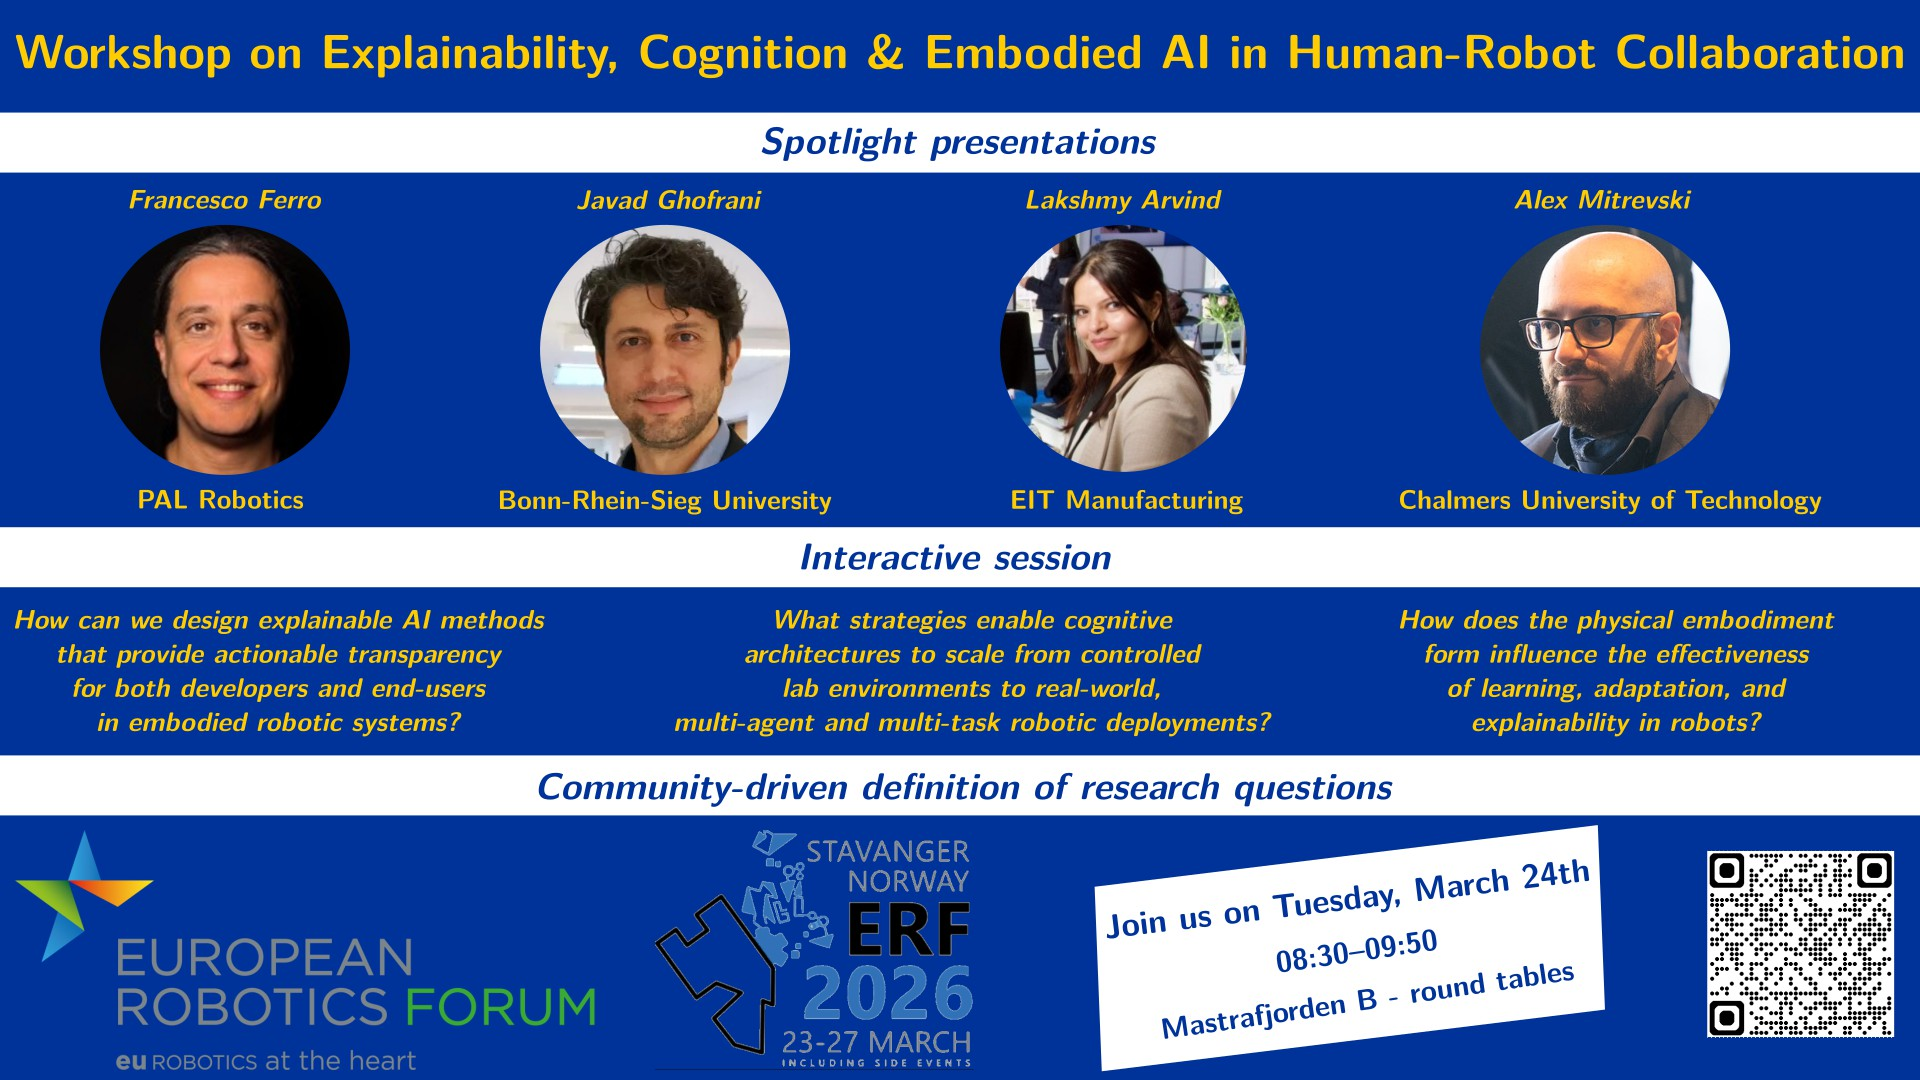
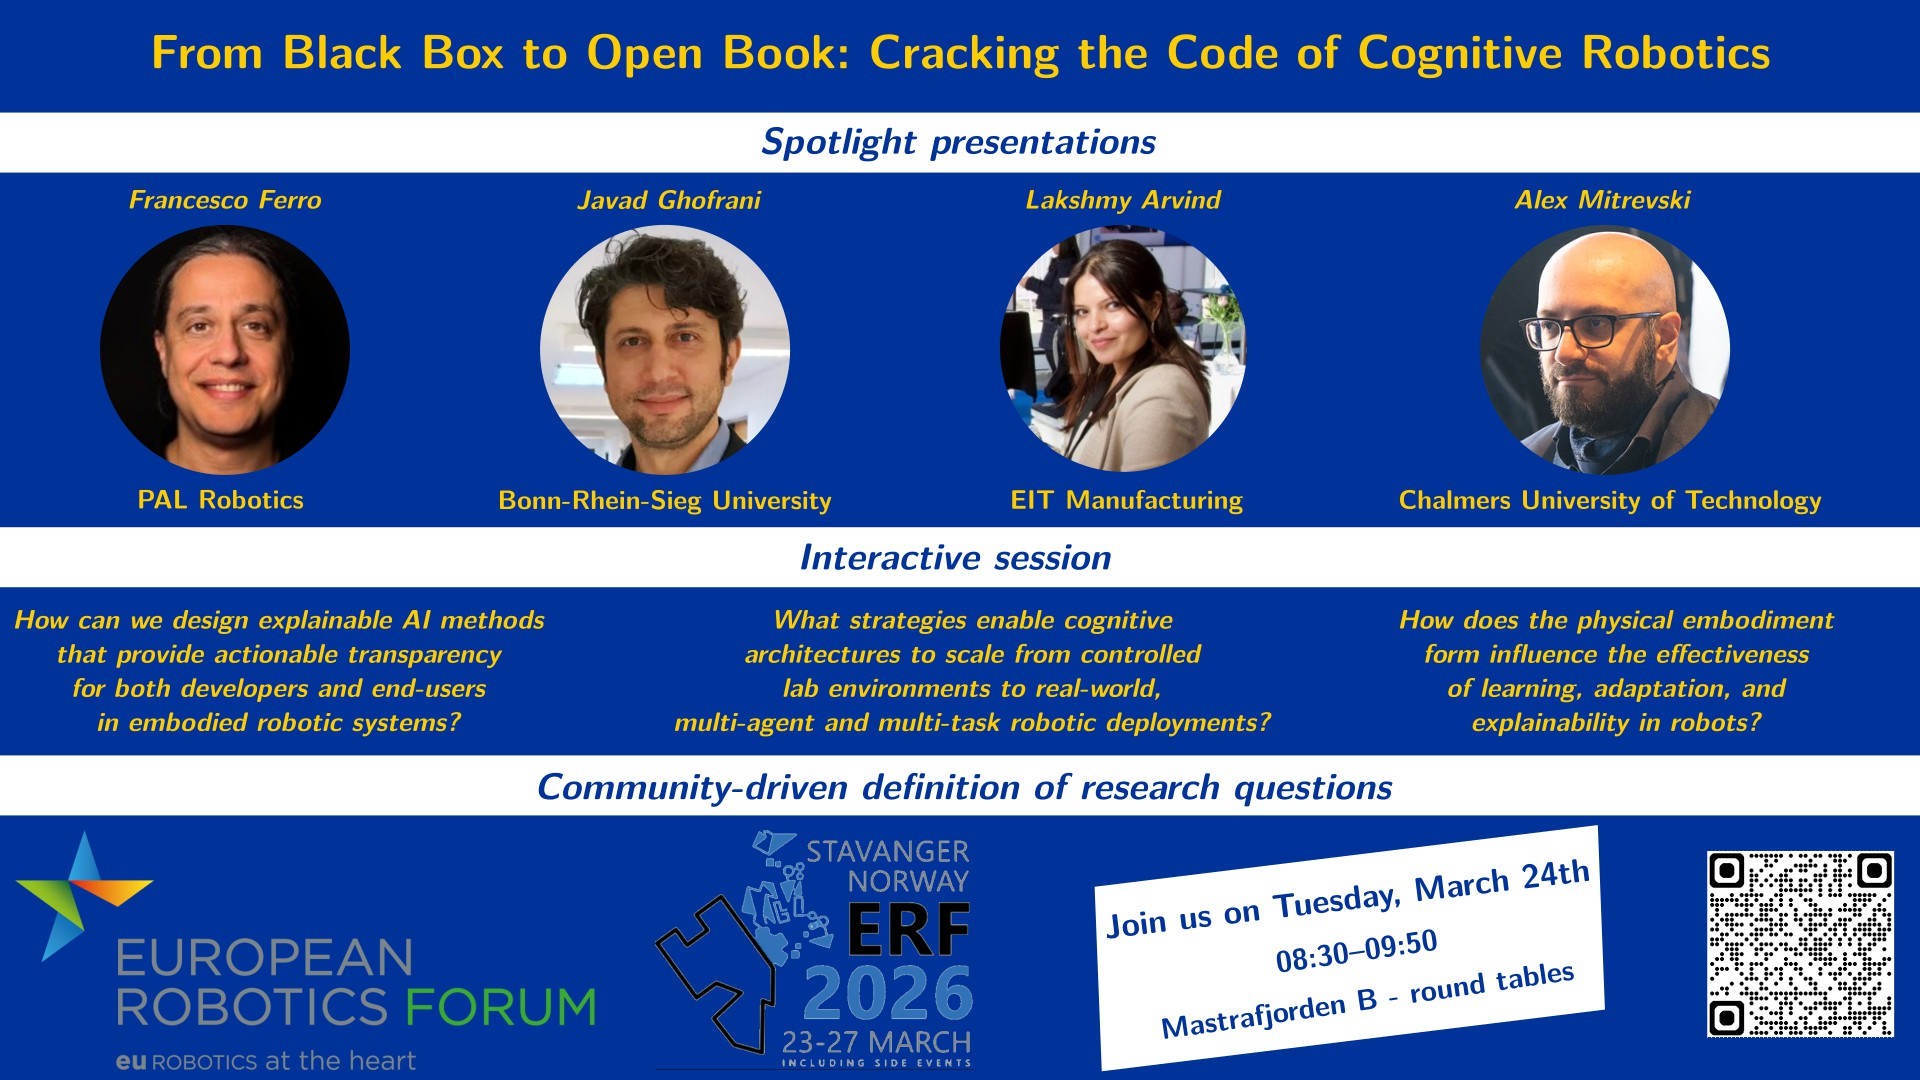
Updated title

Changed region(s): [[0.0, 0.0306, 1.0, 0.0917]]

diff --git a/highlights/index.html b/highlights/index.html
@@ -5,11 +5,11 @@
     <base href="..">
     <link rel="shortcut icon" type="image/png" href="assets/favicon.png"/>
     <link rel="stylesheet" type="text/css" media="all" href="assets/main.css"/>
-    <meta name="description" content="2nd Workshop on Robot Execution Failures and Failure Management Strategies at RSS 2024">
+    <meta name="description" content="From Black Box to Open Book: Cracking the Code of Cognitive Robotics (ERF 2026 Workshop)">
     <meta name="resource-type" content="document">
     <meta name="distribution" content="global">
     <meta name="KeyWords" content="Conference">
-    <title>Workshop Highlights | 2nd Workshop on Robot Execution Failures and Failure Management Strategies at RSS 2024</title>
+    <title>Workshop Highlights | From Black Box to Open Book: Cracking the Code of Cognitive Robotics (ERF 2026 Workshop)</title>
 </head>
 
 <body>
@@ -17,7 +17,7 @@
     <div class="banner">
         <img src="assets/banner.jpg" alt="Conference Template Banner">
         <div class="top-left">
-            <span class="title2">Workshop on Explainability, Cognition &#38; Embodied AI in Human-Robot Collaboration</span> <span class="title1">at ERF 2026</span>
+            <span class="title2">From Black Box to Open Book: Cracking the Code of Cognitive Robotics</span> <span class="title1">(ERF 2026 Workshop)</span>
         </div>
         <div class="bottom-right">
             In-person workshop at ERF 2026 in Stavanger, Norway (Tuesday, March 24 at 08:30)

diff --git a/organisers/index.html b/organisers/index.html
@@ -5,11 +5,11 @@
     <base href="..">
     <link rel="shortcut icon" type="image/png" href="assets/favicon.png"/>
     <link rel="stylesheet" type="text/css" media="all" href="assets/main.css"/>
-    <meta name="description" content="Workshop on Explainability, Cognition & Embodied AI in HRC at ERF 2026">
+    <meta name="description" content="From Black Box to Open Book: Cracking the Code of Cognitive Robotics (ERF 2026 Workshop)">
     <meta name="resource-type" content="document">
     <meta name="distribution" content="global">
     <meta name="KeyWords" content="Conference">
-    <title>Organisers | Workshop on Explainability, Cognition & Embodied AI in HRC at ERF 2026</title>
+    <title>Organisers | From Black Box to Open Book: Cracking the Code of Cognitive Robotics (ERF 2026 Workshop)</title>
 </head>
 
 <body>
@@ -17,7 +17,7 @@
     <div class="banner">
         <img src="assets/banner.jpg" alt="Conference Template Banner">
         <div class="top-left">
-            <span class="title2">Workshop on Explainability, Cognition & Embodied AI in Human-Robot Collaboration</span> <span class="title1">at ERF 2026</span>
+            <span class="title2">From Black Box to Open Book: Cracking the Code of Cognitive Robotics</span> <span class="title1">(ERF 2026 Workshop)</span>
         </div>
         <div class="bottom-right">
             In-person workshop at ERF 2026 in Stavanger, Norway (Tuesday, March 24 at 08:30)

diff --git a/schedule/index.html b/schedule/index.html
@@ -5,11 +5,11 @@
     <base href="..">
     <link rel="shortcut icon" type="image/png" href="assets/favicon.png"/>
     <link rel="stylesheet" type="text/css" media="all" href="assets/main.css"/>
-    <meta name="description" content="Workshop on Explainability, Cognition & Embodied AI in HRC at ERF 2026">
+    <meta name="description" content="From Black Box to Open Book: Cracking the Code of Cognitive Robotics (ERF 2026 Workshop)">
     <meta name="resource-type" content="document">
     <meta name="distribution" content="global">
     <meta name="KeyWords" content="Conference">
-    <title>Schedule | Workshop on Explainability, Cognition & Embodied AI in HRC at ERF 2026</title>
+    <title>Schedule | From Black Box to Open Book: Cracking the Code of Cognitive Robotics (ERF 2026 Workshop)</title>
 </head>
 
 <body>
@@ -17,7 +17,7 @@
     <div class="banner">
         <img src="assets/banner.jpg" alt="Conference Template Banner">
         <div class="top-left">
-            <span class="title2">Workshop on Explainability, Cognition & Embodied AI in Human-Robot Collaboration</span> <span class="title1">at ERF 2026</span>
+            <span class="title2">From Black Box to Open Book: Cracking the Code of Cognitive Robotics</span> <span class="title1">(ERF 2026 Workshop)</span>
         </div>
         <div class="bottom-right">
             In-person workshop at ERF 2026 in Stavanger, Norway (Tuesday, March 24 at 08:30)

diff --git a/speakers/index.html b/speakers/index.html
@@ -5,11 +5,11 @@
     <base href="..">
     <link rel="shortcut icon" type="image/png" href="assets/favicon.png"/>
     <link rel="stylesheet" type="text/css" media="all" href="assets/main.css"/>
-    <meta name="description" content="Workshop on Explainability, Cognition & Embodied AI in HRC at ERF 2026">
+    <meta name="description" content="From Black Box to Open Book: Cracking the Code of Cognitive Robotics (ERF 2026 Workshop)">
     <meta name="resource-type" content="document">
     <meta name="distribution" content="global">
     <meta name="KeyWords" content="Conference">
-    <title>Speakers | Workshop on Explainability, Cognition & Embodied AI in HRC at ERF 2026</title>
+    <title>Speakers | From Black Box to Open Book: Cracking the Code of Cognitive Robotics (ERF 2026 Workshop)</title>
 </head>
 
 <body>
@@ -17,7 +17,7 @@
     <div class="banner">
         <img src="assets/banner.jpg" alt="Conference Template Banner">
         <div class="top-left">
-            <span class="title2">Workshop on Explainability, Cognition & Embodied AI in Human-Robot Collaboration</span> <span class="title1">at ERF 2026</span>
+            <span class="title2">From Black Box to Open Book: Cracking the Code of Cognitive Robotics</span> <span class="title1">(ERF 2026 Workshop)</span>
         </div>
         <div class="bottom-right">
             In-person workshop at ERF 2026 in Stavanger, Norway (Tuesday, March 24 at 08:30)

diff --git a/index.html b/index.html
@@ -5,11 +5,11 @@
     <base href=".">
     <link rel="shortcut icon" type="image/png" href="assets/favicon.png"/>
     <link rel="stylesheet" type="text/css" media="all" href="assets/main.css"/>
-    <meta name="description" content="Workshop on Explainability, Cognition & Embodied AI in HRC at ERF 2026">
+    <meta name="description" content="From Black Box to Open Book: Cracking the Code of Cognitive Robotics (ERF 2026 Workshop)">
     <meta name="resource-type" content="document">
     <meta name="distribution" content="global">
     <meta name="KeyWords" content="Conference">
-    <title>Workshop on Explainability, Cognition &#38; Embodied AI in HRC at ERF 2026</title>
+    <title>From Black Box to Open Book: Cracking the Code of Cognitive Robotics (ERF 2026 Workshop)</title>
 </head>
 
 <body>
@@ -17,7 +17,7 @@
     <div class="banner">
         <img src="assets/banner.jpg" alt="Conference Template Banner">
         <div class="top-left">
-            <span class="title2">Workshop on Explainability, Cognition &#38; Embodied AI in Human-Robot Collaboration</span> <span class="title1">at ERF 2026</span>
+            <span class="title2">From Black Box to Open Book: Cracking the Code of Cognitive Robotics</span> <span class="title1">(ERF 2026 Workshop)</span>
         </div>
         <div class="bottom-right">
             In-person workshop at ERF 2026 in Stavanger, Norway (Tuesday, March 24 at 08:30)
